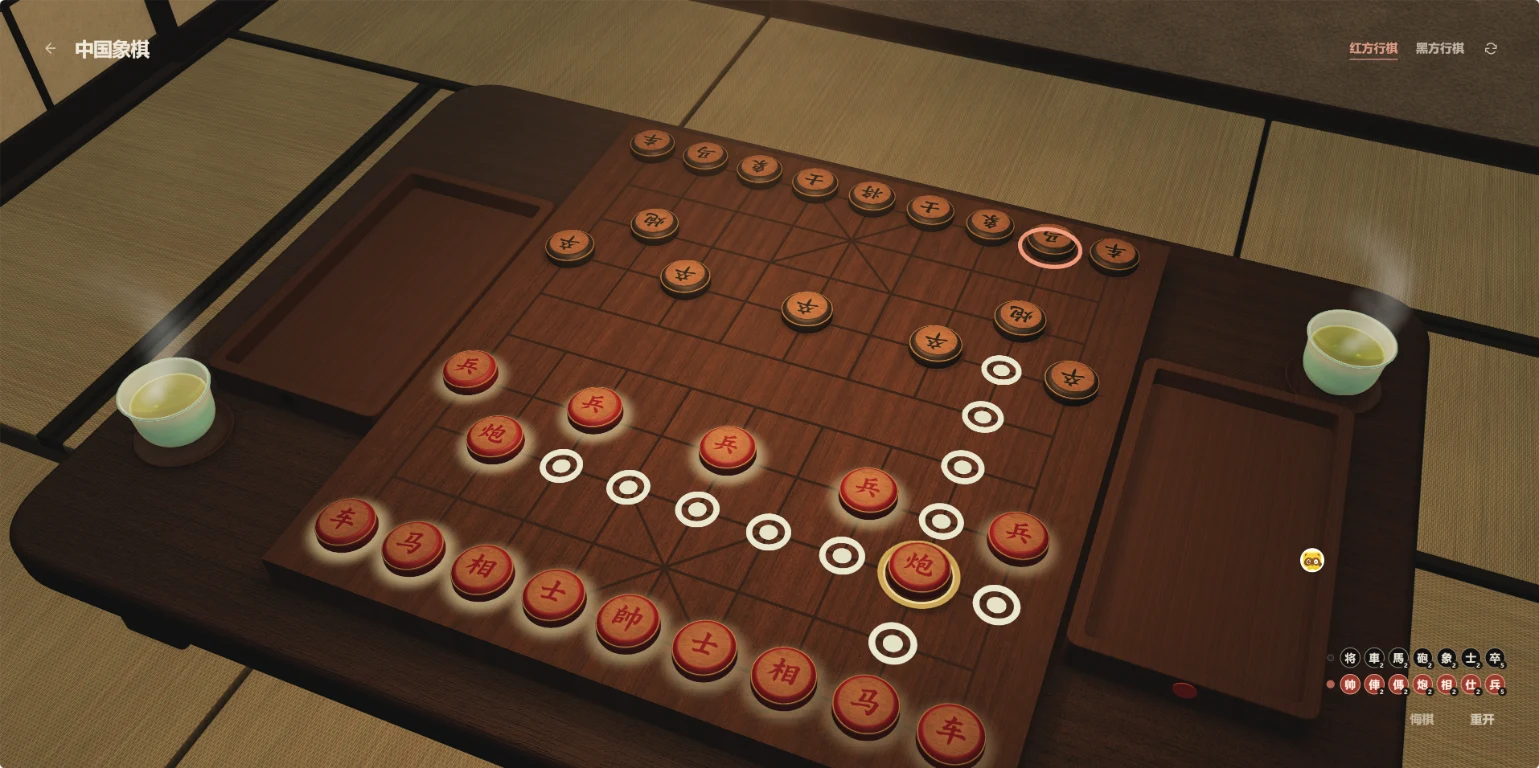
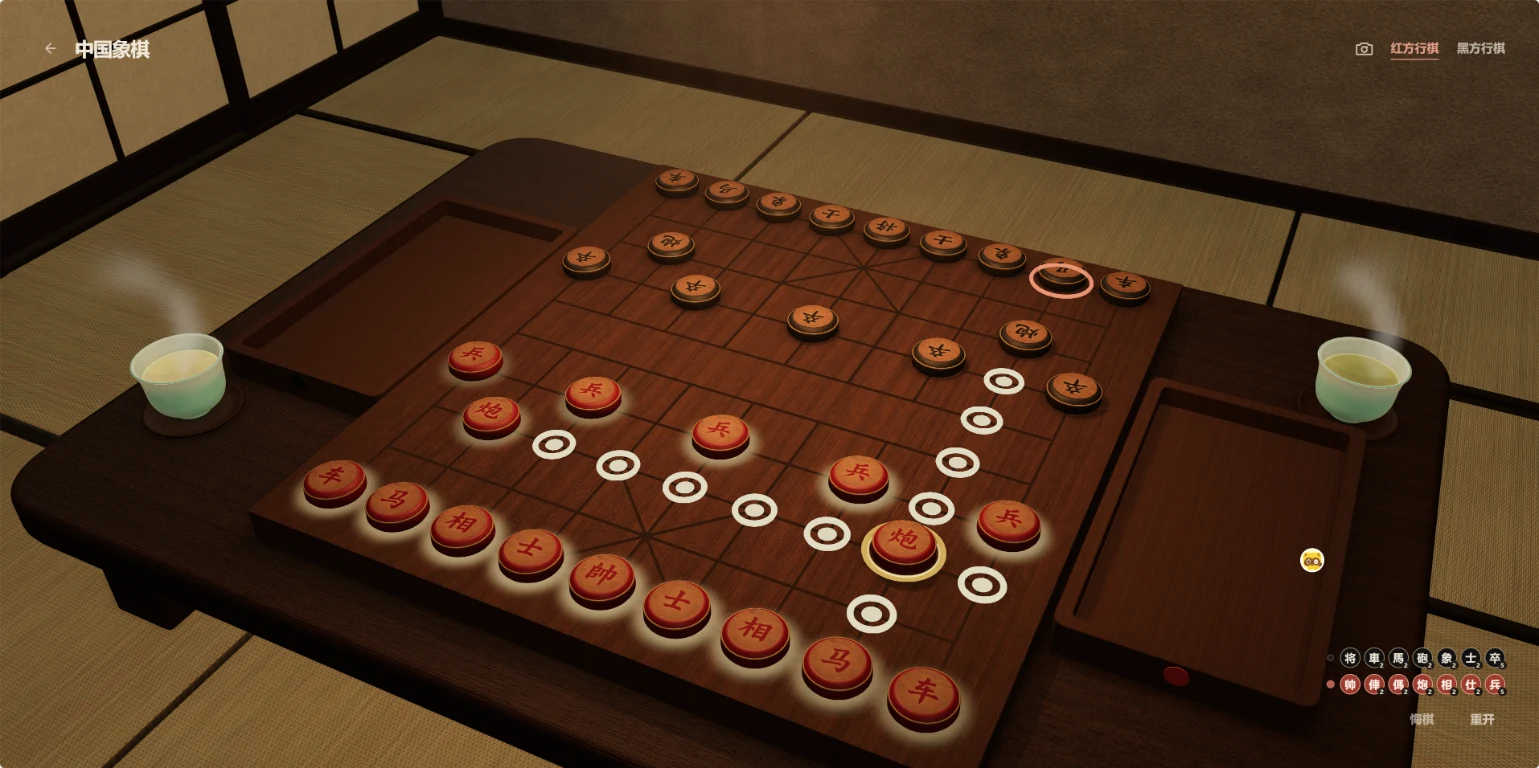
Brighten scene, add bloom, fresnel tea and contact shadows, restyle view button
Softer shadows, bloom pass, fresnel on the tea surface, per-piece contact shadows, camera icon for reset view placed left of the turn indicator, exposure 1.09 and a new README screenshot.

diff --git a/src/board-renderer.ts b/src/board-renderer.ts
@@ -5,6 +5,7 @@ import { OutputPass } from "three/addons/postprocessing/OutputPass.js";
 import { RenderPass } from "three/addons/postprocessing/RenderPass.js";
 import { SSAOPass } from "three/addons/postprocessing/SSAOPass.js";
 import { SMAAPass } from "three/addons/postprocessing/SMAAPass.js";
+import { UnrealBloomPass } from "three/addons/postprocessing/UnrealBloomPass.js";
 // CHANGE: textures use FetchTextureLoader (single fetch) instead of THREE.TextureLoader (Range requests).
 import { FetchTextureLoader } from "./fetch-texture-loader";
 import type {
@@ -152,6 +153,7 @@ export class BoardRenderer {
   private readonly renderer: THREE.WebGLRenderer;
   private readonly composer: EffectComposer;
   private readonly ssaoPass: SSAOPass;
+  private readonly bloomPass: UnrealBloomPass;
   private readonly atmospherePass: RoomAtmospherePass;
   private readonly room: ChessRoom;
   private readonly controls: OrbitControls;
@@ -215,9 +217,9 @@ export class BoardRenderer {
     });
     this.renderer.setPixelRatio(Math.min(window.devicePixelRatio, 2));
     this.renderer.shadowMap.enabled = true;
-    this.renderer.shadowMap.type = THREE.PCFShadowMap;
+    this.renderer.shadowMap.type = THREE.PCFSoftShadowMap;
     this.renderer.toneMapping = THREE.ACESFilmicToneMapping;
-    this.renderer.toneMappingExposure = 1;
+    this.renderer.toneMappingExposure = 1.09;
     this.renderer.outputColorSpace = THREE.SRGBColorSpace;
 
     this.composer = new EffectComposer(this.renderer);
@@ -257,6 +259,9 @@ export class BoardRenderer {
       this.camera, sceneDepth, this.controls.target, this.room.ceilingLight, this.room.volume,
     );
     this.composer.addPass(this.atmospherePass);
+    // Only the brightest highlights (lamp, glaze, selection halos) bloom.
+    this.bloomPass = new UnrealBloomPass(new THREE.Vector2(1, 1), 0.28, 0.7, 0.92);
+    this.composer.addPass(this.bloomPass);
     this.composer.addPass(new OutputPass());
     this.composer.addPass(new SMAAPass());
     this.captureBoxes = new CaptureBoxes(
@@ -440,6 +445,8 @@ export class BoardRenderer {
     canvas.removeEventListener("pointercancel", this.onPointerUpBound);
     this.renderer.dispose();
     this.ssaoPass.dispose();
+    this.bloomPass.dispose();
+    this.contactMap?.dispose();
     this.atmospherePass.dispose();
     this.composer.dispose();
     this.woodColorTexture.dispose();
@@ -872,6 +879,25 @@ export class BoardRenderer {
     hoverRing.visible = false;
     group.add(hoverRing);
 
+    // Soft contact shadow on the board; follows the board while the piece lifts.
+    const contact = new THREE.Mesh(
+      new THREE.CircleGeometry(PIECE_RADIUS * 1.45, 32),
+      new THREE.MeshBasicMaterial({
+        color: "#000000",
+        map: this.contactTexture(),
+        transparent: true,
+        opacity: 0.5,
+        depthWrite: false,
+        polygonOffset: true,
+        polygonOffsetFactor: -2,
+        polygonOffsetUnits: -2,
+      }),
+    );
+    contact.rotation.x = -Math.PI / 2;
+    contact.position.y = 0.004;
+    contact.renderOrder = -1;
+    contact.userData.contact = true;
+    group.add(contact);
     // Soft light pooling under the base of every piece the side to move can play.
     const turnGlow = new THREE.Mesh(
       new THREE.CircleGeometry(PIECE_RADIUS * TURN_HALO_REACH, 48),
@@ -1087,6 +1113,24 @@ void main() {
     this.camera.lookAt(target);
   }
 
+  private contactMap: THREE.CanvasTexture | null = null;
+
+  private contactTexture(): THREE.CanvasTexture {
+    if (this.contactMap) return this.contactMap;
+    const size = 64;
+    const canvas = document.createElement("canvas");
+    canvas.width = canvas.height = size;
+    const context = canvas.getContext("2d") as CanvasRenderingContext2D;
+    const gradient = context.createRadialGradient(size / 2, size / 2, 0, size / 2, size / 2, size / 2);
+    gradient.addColorStop(0, "rgba(255,255,255,1)");
+    gradient.addColorStop(0.55, "rgba(255,255,255,0.55)");
+    gradient.addColorStop(1, "rgba(255,255,255,0)");
+    context.fillStyle = gradient;
+    context.fillRect(0, 0, size, size);
+    this.contactMap = new THREE.CanvasTexture(canvas);
+    return this.contactMap;
+  }
+
   private updatePieces(elapsed: number): void {
     for (const animation of [...this.pieceAnimations]) {
       const progress = Math.min(1, (elapsed - animation.start) / animation.duration);
@@ -1139,6 +1183,12 @@ void main() {
       }
       for (const child of group.children) {
         if (!(child instanceof THREE.Mesh)) continue;
+        if (child.userData.contact) {
+          const lift = Math.max(0, group.position.y - this.pieceBaseY());
+          child.position.y = 0.004 - lift;
+          (child.material as THREE.MeshBasicMaterial).opacity = 0.5 * Math.exp(-lift * 5);
+          child.scale.setScalar(1 + lift * 1.6);
+        }
         if (child.userData.selectionRing) {
           child.visible = isSelected;
           (child.material as THREE.MeshBasicMaterial).opacity = isSelected ? 0.86 : 0;

diff --git a/index.html b/index.html
@@ -140,21 +140,22 @@
         </div>
 
         <div class="hud-turn">
-          <div class="turn-statuses" id="turn-statuses" role="status" aria-label="当前回合">
-            <span class="turn-state turn-state-red is-active" id="red-turn-state">红方行棋</span>
-            <span class="turn-state turn-state-black" id="black-turn-state">黑方行棋</span>
-          </div>
           <button
             class="hud-button view-button"
             id="btn-view"
             type="button"
-            aria-label="切换棋盘视角"
-            title="切换棋盘视角"
+            aria-label="恢复视角"
+            title="恢复视角"
           >
             <svg viewBox="0 0 24 24" aria-hidden="true">
-              <path d="M20 7v5h-5M4 17v-5h5M6 7a7 7 0 0 1 12 1M18 17a7 7 0 0 1-12-1" />
+              <path d="M4 8h3l1.5-2h7L17 8h3a1 1 0 0 1 1 1v9a1 1 0 0 1-1 1H4a1 1 0 0 1-1-1V9a1 1 0 0 1 1-1z" />
+              <path d="M14.6 11.2A3.2 3.2 0 1 0 15.2 13.5M15.2 10.2v1.3h-1.3" />
             </svg>
           </button>
+          <div class="turn-statuses" id="turn-statuses" role="status" aria-label="当前回合">
+            <span class="turn-state turn-state-red is-active" id="red-turn-state">红方行棋</span>
+            <span class="turn-state turn-state-black" id="black-turn-state">黑方行棋</span>
+          </div>
         </div>
 
         <div class="sr-only" id="selection-note" aria-live="polite" hidden></div>

diff --git a/src/chess-room.ts b/src/chess-room.ts
@@ -409,7 +409,10 @@ export class ChessRoom {
         "#include <emissivemap_fragment>",
         `#include <emissivemap_fragment>
 float teaRim = smoothstep(0.455, 0.525, vTeaRadius);
-totalEmissiveRadiance += vec3(0.2, 0.21, 0.09) * teaRim * teaRim;`,
+totalEmissiveRadiance += vec3(0.2, 0.21, 0.09) * teaRim * teaRim;
+// Fresnel: the surface turns mirror-like at grazing angles and picks up the warm room.
+float teaFresnel = pow(1.0 - clamp(dot(normalize(normal), normalize(vViewPosition)), 0.0, 1.0), 4.0);
+totalEmissiveRadiance += vec3(0.55, 0.48, 0.36) * teaFresnel * 0.5;`,
       );
     };
     this.load(roomTextureManifest.teaNormal, THREE.NoColorSpace, texture => {

diff --git a/src/styles.css b/src/styles.css
@@ -499,8 +499,8 @@ button svg {
 }
 
 .view-button svg {
-  width: 26px;
-  height: 26px;
+  width: 34px;
+  height: 34px;
 }
 
 .player-chip {
@@ -828,8 +828,8 @@ button svg {
   }
 
   .view-button svg {
-    width: 22px;
-    height: 22px;
+    width: 29px;
+    height: 29px;
   }
 
   .hud-players {
